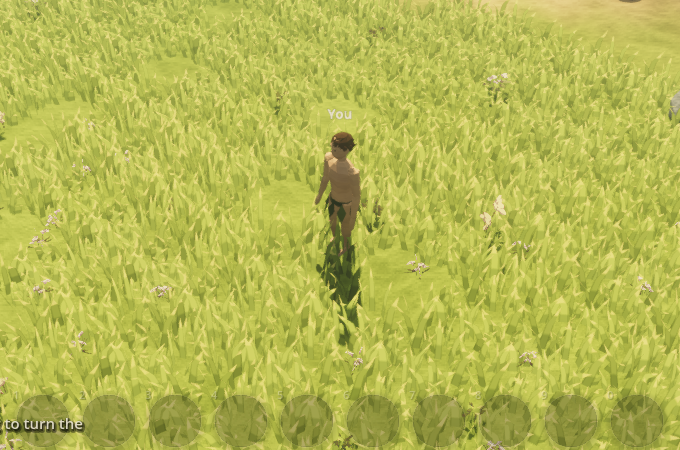
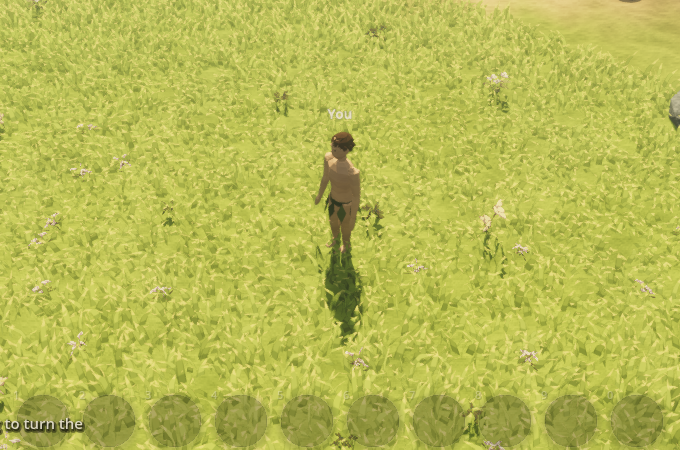
env-13: shorter, denser grass with no open patches; tufts turned per tile in three variants (Justin)
Claude-Session: https://claude.ai/code/session_012hVejTxLoxBpZyX3GQmNL9

diff --git a/client/scripts/environment/PaintedGround.cs b/client/scripts/environment/PaintedGround.cs
@@ -58,7 +58,8 @@ public static class PaintedGround
     // the size they are first asked for, so these sizes are the ones Terrain uses.
     public static void Prewarm()
     {
-        _ = BroadTuft; _ = Twig; _ = GrassMaterial; _ = CardMaterial;
+        for (int i = 0; i < TuftVariants; i++) BroadTufts(i);
+        _ = Twig; _ = GrassMaterial; _ = CardMaterial;
         _ = PropMeshes.Stump; _ = Look.BarkSurface;
         for (int i = 0; i < 4; i++) Card(MushroomCards + i, 0.22f);
         for (int i = 0; i < 3; i++) Card(CloverCards + i, 0.3f);
@@ -72,29 +73,32 @@ public static class PaintedGround
 
     public static Mesh Twig => twig ??= BuildTwig();
 
-    // A square metre of the restyled grass: 64 blades in a jittered 8 x 8 grid like
-    // today's 100, but each a broad, arching leaf (full width for the lower half, then
+    // A square metre of the restyled grass: 100 blades in a jittered 10 x 10 grid and
+    // at the same heights as today's (Justin: shorter, denser), but each a broad, arching leaf (full width for the lower half, then
     // a tapered point that bends over) rather than a thin spike, as the pack's tufts
     // are drawn. Each blade's vertex shade varies a little, so neighbours read apart.
-    public static Mesh BroadTuft => broadTuft ??= BuildBroadTuft();
-    static Mesh? broadTuft;
+    public static Mesh BroadTuft => BroadTufts(0);
+    public const int TuftVariants = 3;
+    static readonly Mesh?[] broadTufts = new Mesh?[TuftVariants];
+    public static Mesh BroadTufts(int variant) => broadTufts[variant] ??= BuildBroadTuft(variant);
 
-    static Mesh BuildBroadTuft()
+    static Mesh BuildBroadTuft(int variant)
     {
+        uint v = (uint)variant * 40u;
         var st = new SurfaceTool();
         st.Begin(Mesh.PrimitiveType.Triangles);
-        const int grid = 8;
+        const int grid = 10;
         for (int gx = 0; gx < grid; gx++)
             for (int gz = 0; gz < grid; gz++)
             {
-                float px = (gx + 0.5f) / grid - 0.5f + (H(gx, gz, 620) - 0.5f) / grid;
-                float pz = (gz + 0.5f) / grid - 0.5f + (H(gx, gz, 621) - 0.5f) / grid;
-                float angle = H(gx, gz, 622) * Mathf.Pi;
-                float height = 0.34f + H(gx, gz, 623) * 0.34f;
-                float half = 0.035f + H(gx, gz, 624) * 0.025f;
+                float px = (gx + 0.5f) / grid - 0.5f + (H(gx, gz, 620u + v) - 0.5f) / grid;
+                float pz = (gz + 0.5f) / grid - 0.5f + (H(gx, gz, 621u + v) - 0.5f) / grid;
+                float angle = H(gx, gz, 622u + v) * Mathf.Pi;
+                float height = 0.2f + H(gx, gz, 623u + v) * 0.22f;
+                float half = 0.032f + H(gx, gz, 624u + v) * 0.022f;
                 var side = new Vector3(Mathf.Cos(angle), 0, Mathf.Sin(angle)) * half;
-                var lean = new Vector3(H(gx, gz, 625) - 0.5f, 0, H(gx, gz, 626) - 0.5f).Normalized() * (0.08f + H(gx, gz, 627) * 0.16f);
-                var shade = Colors.White.Darkened(H(gx, gz, 628) * 0.32f);
+                var lean = new Vector3(H(gx, gz, 625u + v) - 0.5f, 0, H(gx, gz, 626u + v) - 0.5f).Normalized() * (0.08f + H(gx, gz, 627u + v) * 0.16f);
+                var shade = Colors.White.Darkened(H(gx, gz, 628u + v) * 0.32f);
                 var root = new Vector3(px, -0.02f, pz);
                 var mid = root + lean * 0.35f + Vector3.Up * height * 0.55f;
                 var tip = root + lean + Vector3.Up * height * 0.9f;

diff --git a/client/scripts/Terrain.cs b/client/scripts/Terrain.cs
@@ -450,13 +450,18 @@ public partial class Terrain : Node3D
                 bool grassy = top >= Look.WaterLevel + 0.2f && World.ClayScore(x, z) < 0.7f;
                 // Under the trees the grass thins and stays short; it is short on the
                 // heath and gives way to moss on wet ground.
-                if (grassy && tufts != null && Hash01(x, z, 40) < 0.93f - 0.5f * density - 0.5f * wet - 0.6f * trail)
+                // The art-reference prototype covers every grassy cell but the paths
+                // (Justin: no open patches); woods and wet ground vary its height instead.
+                bool tufted = PaintedGround.On ? trail < 0.5f : Hash01(x, z, 40) < 0.93f - 0.5f * density - 0.5f * wet - 0.6f * trail;
+                if (grassy && tufts != null && tufted)
                 {
                     // Shear the patch onto the slope so every blade stays rooted.
                     float sx = (TileHeight(x + 1, z) - TileHeight(x - 1, z)) * 0.5f;
                     float sz = (TileHeight(x, z + 1) - TileHeight(x, z - 1)) * 0.5f;
                     var slope = new Basis(new Vector3(1, sx, 0), new Vector3(0, (0.75f + Hash01(x, z, 42) * 0.5f) * (1f - 0.35f * density) * (1f - 0.45f * heath) * (1f - 0.5f * trail), 0), new Vector3(0, sz, 1));
                     var g = new Transform3D(slope, new Vector3(x, top, z));
+                    // Painted tufts turn per tile, so the same square never repeats in rows.
+                    if (PaintedGround.On) g = new Transform3D(slope * new Basis(Vector3.Up, Hash01(x, z, 46) * Mathf.Tau), g.Origin);
                     // The art-reference prototype tints the blades in the pack palette.
                     var tuftColor = PaintedGround.On
                         ? PaintedGround.Grass(TileColor(x, z, top, cleared: false, painted: false), World.Noise(x, z, 14f, 31))
@@ -506,7 +511,10 @@ public partial class Terrain : Node3D
         {
             // Justin: the old dense blade carpet stays the grass, restyled in painted
             // tone bands; the pack's cards are only sparse accents in it.
-            if (tufts != null) data.Add(PaintedGround.BroadTuft, tufts, PaintedGround.GrassMaterial, castShadow: false);
+            if (tufts != null)
+                for (int v = 0; v < PaintedGround.TuftVariants; v++)
+                    data.Add(PaintedGround.BroadTufts(v), tufts.FindAll(t => Variant(Mathf.RoundToInt(t.Item1.Origin.X), Mathf.RoundToInt(t.Item1.Origin.Z), 47, PaintedGround.TuftVariants) == v),
+                        PaintedGround.GrassMaterial, castShadow: false);
             data.Add(PaintedGround.Card(PaintedGround.FernCards, 0.75f), PaintedGround.Whiten(ferns), PaintedGround.CardMaterial, castShadow: false);
             data.Add(PaintedGround.Card(PaintedGround.FlowerCards, 0.35f), PaintedGround.Whiten(flowers), PaintedGround.CardMaterial, castShadow: false);
         }

diff --git a/tickets/env-13.md b/tickets/env-13.md
@@ -14,6 +14,7 @@ Match ground cover and terrain to Justin's docs/art-reference (02 forest meadow,
 - 2026-10-17 01:00 UTC: Justin rejected the card grass ("HORRIBLE, I want the old grass back, and make it match the new style"); the PM set the bar: side by side with reference 02/03 it should read as the same artist, full non-photoreal. Reworked: the old dense, wind-swept carpet is the grass again (same density, motion, 48 m fade), restyled with a prototype banded grass shader (PaintedGround.GrassMaterial: shaded violet-olive base matching the ground, the tile's muted green, olive-yellow lit tips; band edges shift per patch; soft dark rim along blade edges) on a broad-leaf tuft (64 arching leaves per m², 1.3x taller). Ground a deep olive so gaps read as shade; sandy trails. Pack cards only as sparse accents (ferns, flowers, clover, mushrooms). Card clumps and the mixed mode removed. Side by side (today / painted / reference 02): renders/env-13/env-13-grass-before-after-ref02.png, close-up env-13-grass-closeup.png. Self-critique sent to the PM; grade/contrast asked of Atmosphere.
 - 2026-10-17 01:15 UTC: accents denser: small grey-violet stones (Rock variants at 0.55-1.0 scale, variant D stone tint) and the pack's white flowers in the meadow grass, more twigs. Grove-edge framing (6,16): renders/env-13/env-13-grove-edge-before-after-ref02.png. Under the canopy the old tree meshes dominate the frame (Modeling's D), so the grass is only part of the gap. Land.WaterAt PR #387 green (92b0f9e), sent to the PM.
 - 2026-10-17 01:45 UTC: merged main (worker-thread chunks: PaintedGround.Prewarm for everything the builds touch) and Atmosphere's grade (claude/atmosphere-25-grade, --grade=1). Per the PM: carpet fully filled in the pack's bright warm yellow-green (ground (0.50, 0.57, 0.22) matching the blades' base band), more blade-to-blade shade variation, yellower lit band. Renders updated (renders/env-13/env-13-grass-before-after-ref02.png, -closeup.png, with --grade=1). Next: Modeling's combined Showcase scene (their D trees/rocks/stumps + this grass + the grade); Justin sees it only at about 70% of reference 02.
+- 2026-10-17 02:05 UTC: Justin: "a little shorter, and denser, no patch giant open spots". Blades back to the old heights (0.2-0.42 m), 100 per m² (10 x 10), a tuft on every grassy cell except paths (woods and wet ground vary height and colour, not coverage), three tuft variants turned per tile so no rows show. Renders updated (renders/env-13/env-13-grass-before-after-ref02.png, -closeup.png), sent to the PM (Justin sees images only through the PM).
 
 ## Open questions / blockers
 - Modeling: variant D palette values; mushroom/twig ownership.
